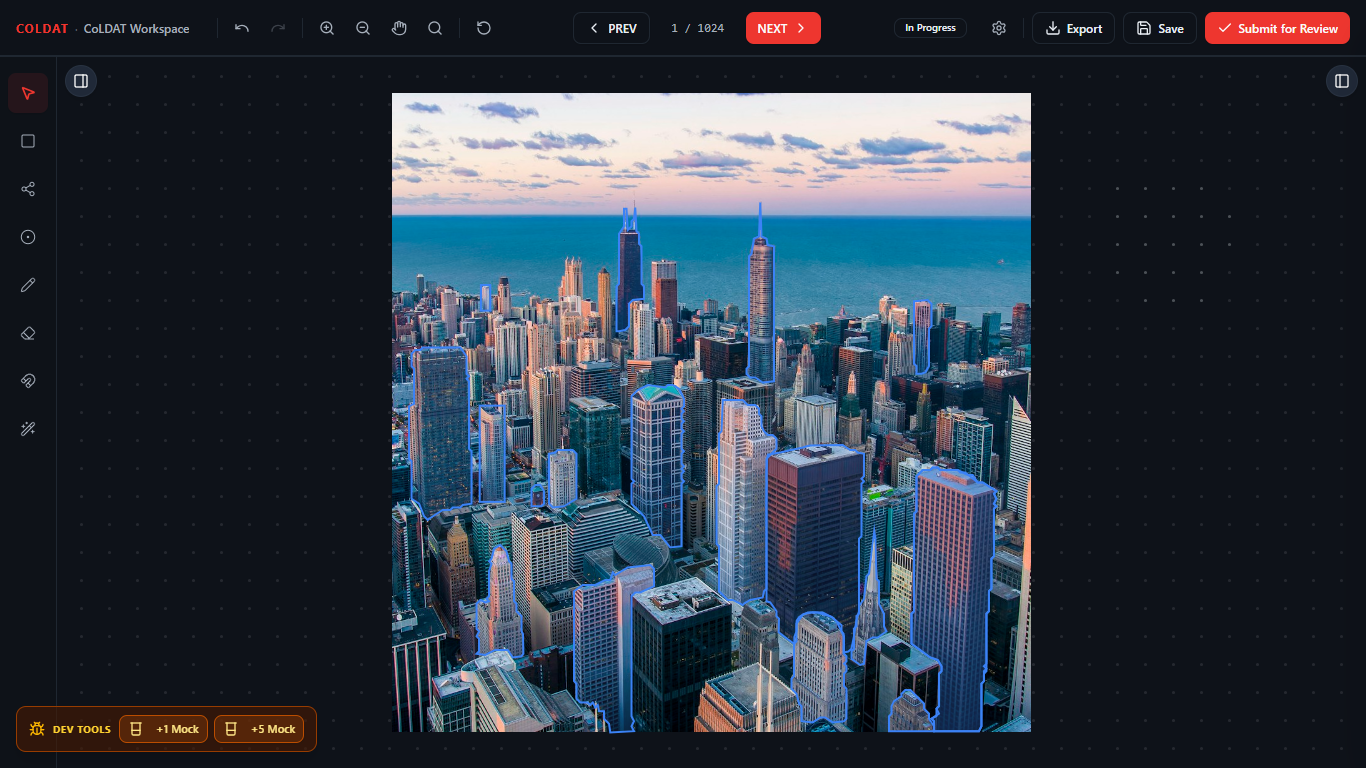
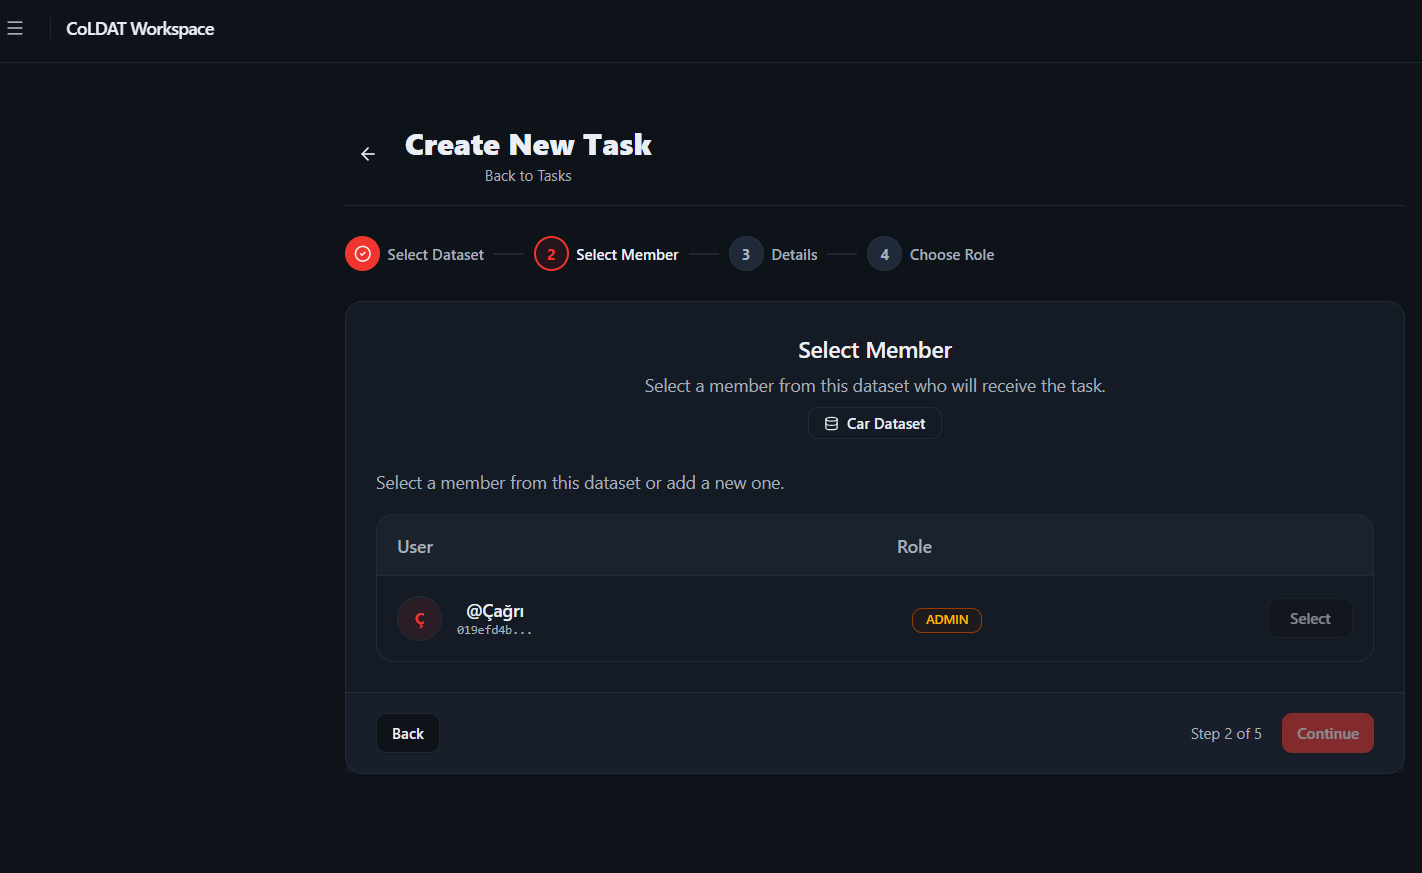
revised landing page

diff --git a/frontend/src/features/landing/components/Navbar.tsx b/frontend/src/features/landing/components/Navbar.tsx
@@ -10,9 +10,27 @@ export const Navbar: React.FC = () => {
     <nav className="border-b border-neutral-100 dark:border-zinc-900 bg-white/70 dark:bg-zinc-950/70 backdrop-blur-md sticky top-0 z-50 transition-colors">
       <div className="max-w-7xl mx-auto px-6 h-16 flex items-center justify-between">
         <div className="flex items-center gap-8">
-          <span className="text-xl font-bold tracking-tight text-neutral-900 dark:text-white">
-            <span className="text-red-600 font-extrabold">{t("common:brand")}</span>
-          </span>
+          
+          {/* 🎯 DÜZELTME: Yazı yerine public/images/logo.png yerleştirildi */}
+          <Link to="/" className="flex items-center group">
+            <img 
+              src="/images/logo.png" 
+              alt="CoLDAT Logo" 
+              className="h-8 w-auto object-contain group-hover:scale-105 transition-transform duration-200"
+              onError={(e) => {
+                // Eğer public/images/logo.png henüz oluşturulmadıysa kırık görsel kalmasın diye fallback metin:
+                e.currentTarget.style.display = 'none';
+                const parent = e.currentTarget.parentElement;
+                if (parent && !parent.querySelector('.brand-fallback')) {
+                  const span = document.createElement('span');
+                  span.className = 'brand-fallback text-xl font-bold text-red-600';
+                  span.innerText = 'CoLDAT';
+                  parent.appendChild(span);
+                }
+              }}
+            />
+          </Link>
+
           <div className="hidden md:flex items-center gap-6">
             {/* 🎯 DÜZELTME: Features ve Integrations tableri silindi, sadece Platform kaldı */}
             {['Platform'].map((link) => (

diff --git a/frontend/src/features/landing/components/HeroSection.tsx b/frontend/src/features/landing/components/HeroSection.tsx
@@ -13,7 +13,7 @@ export const HeroSection: React.FC = () => {
       {/* Main Headlines */}
       <h1 className="text-5xl md:text-7xl font-extrabold tracking-tight text-neutral-950 dark:text-white max-w-4xl leading-[1.15] mb-6 px-4">
         Computer Vision <br />
-        <span className="italic font-serif text-red-600 dark:text-red-500 font-black">Training, Simplified.</span>
+        <span className="italic font-serif text-red-600 dark:text-red-500 font-black">Annotation Tool</span>
       </h1>
 
       <p className="text-neutral-600 dark:text-zinc-400 max-w-2xl text-base md:text-lg mb-10 px-4 leading-relaxed">